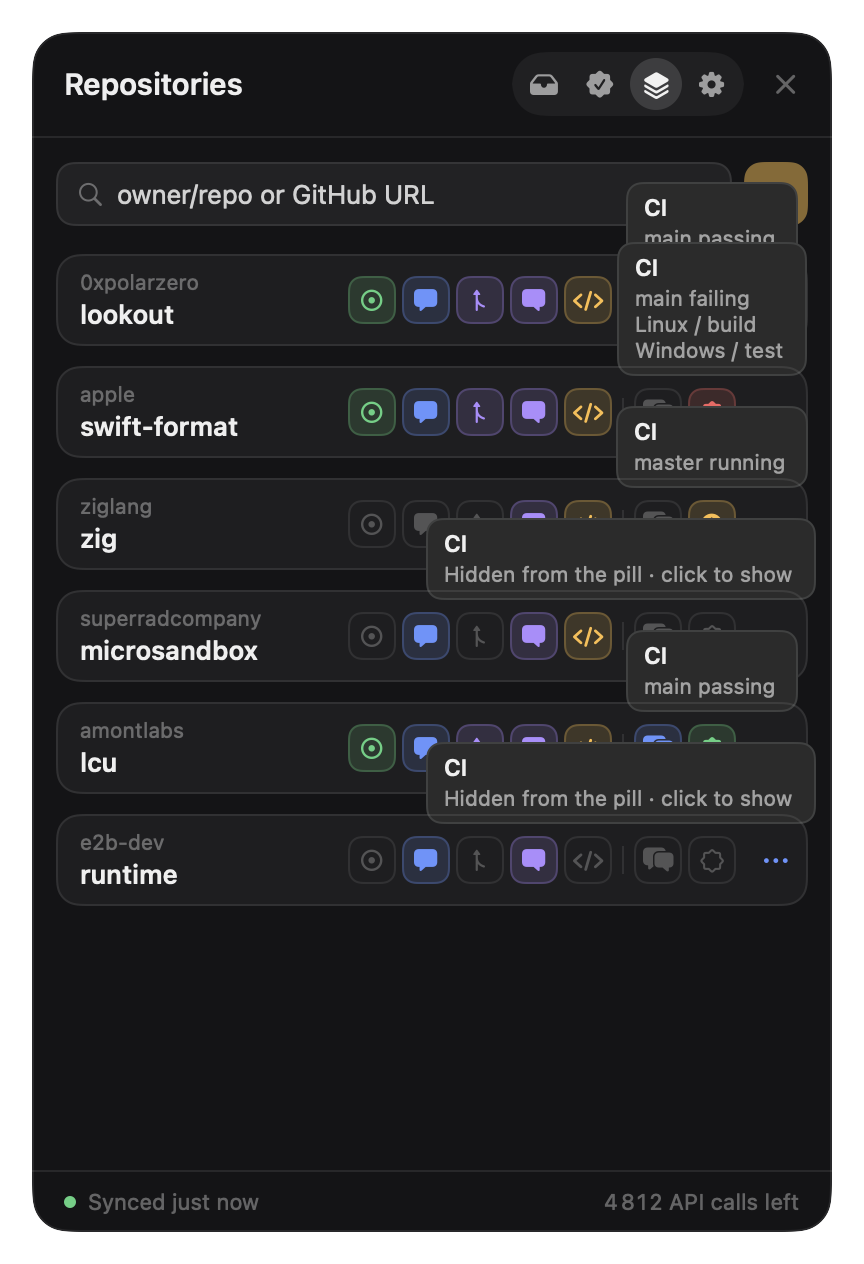
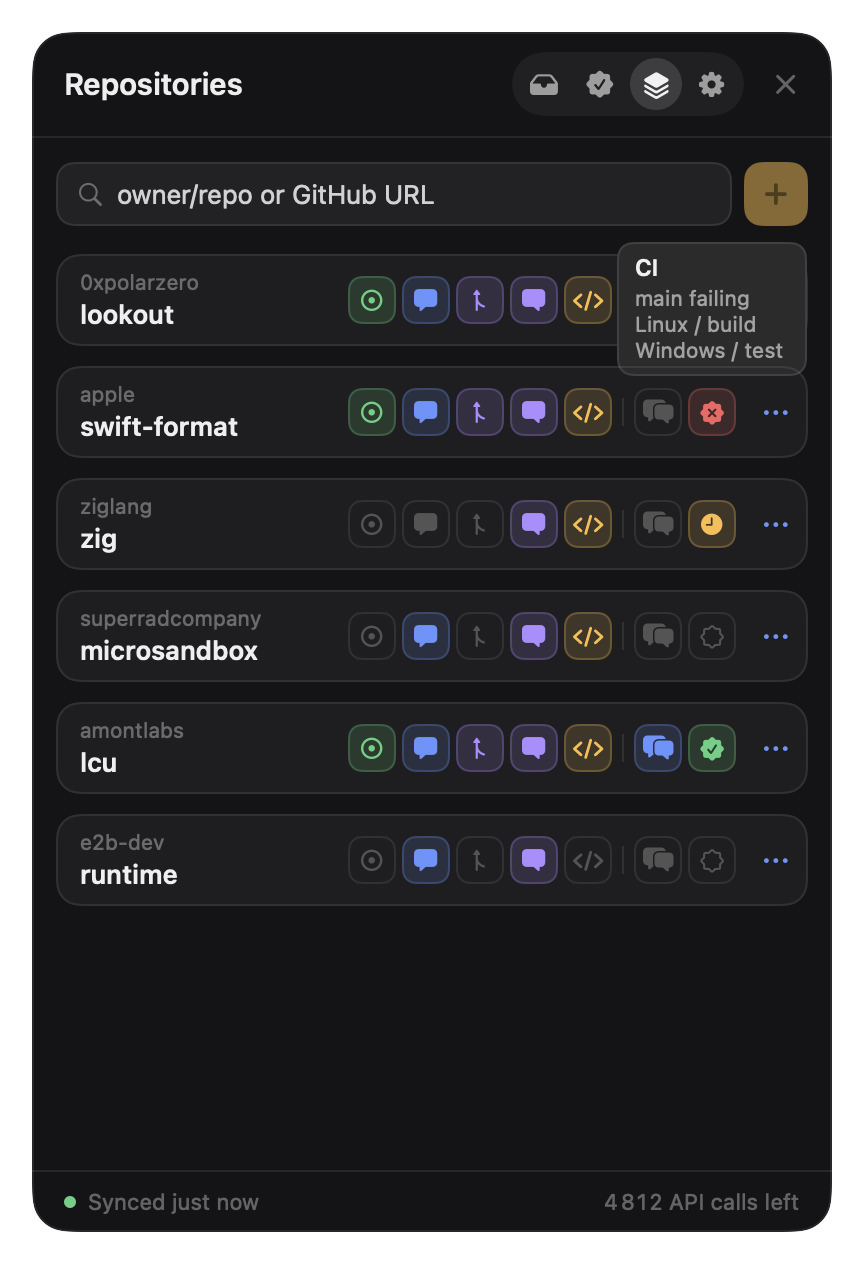
Screenshots: show one tooltip per Repositories shot

diff --git a/Sources/Lookout/ReposView.swift b/Sources/Lookout/ReposView.swift
@@ -117,6 +117,7 @@ struct RepoCard: View {
     let store: Store
     @State private var dropTarget = false
     @State private var hover = false
+    @Environment(\.previewTip) private var previewTip
 
     var body: some View {
         HStack(spacing: 10) {
@@ -154,6 +155,10 @@ struct RepoCard: View {
                 .strokeBorder(dropTarget ? Theme.accent : Theme.stroke, lineWidth: dropTarget ? 1.5 : 1)
         )
         .onHover { hover = $0 }
+        // Screenshots target one badge as "owner/repo|Tooltip title"; only that card shows it.
+        .environment(\.previewTip, previewTip.flatMap { spec in
+            spec.hasPrefix(repo.fullName + "|") ? String(spec.dropFirst(repo.fullName.count + 1)) : nil
+        })
         .draggable(repo.fullName) {
             Text(repo.fullName)
                 .font(.system(size: 12, weight: .semibold))

diff --git a/Sources/Lookout/Demo.swift b/Sources/Lookout/Demo.swift
@@ -143,7 +143,8 @@ enum Snapshot {
             ui.filter = filter
             host(label, pill: false, PanelView(store: store(scenario), ui: ui, close: {})
                 .padding(16)
-                .environment(\.previewTip, label.contains("CI tooltip") ? "CI" : label.contains("tooltip") ? "Issue comments" : nil)
+                .environment(\.previewTip, label.contains("CI tooltip") ? "apple/swift-format|CI"
+                    : label.contains("tooltip") ? "superradcompany/microsandbox|Issue comments" : nil)
                 .environment(\.previewHover, Demo.hoverID)
                 .environment(\.previewSelection, Demo.selectedID))
         }
